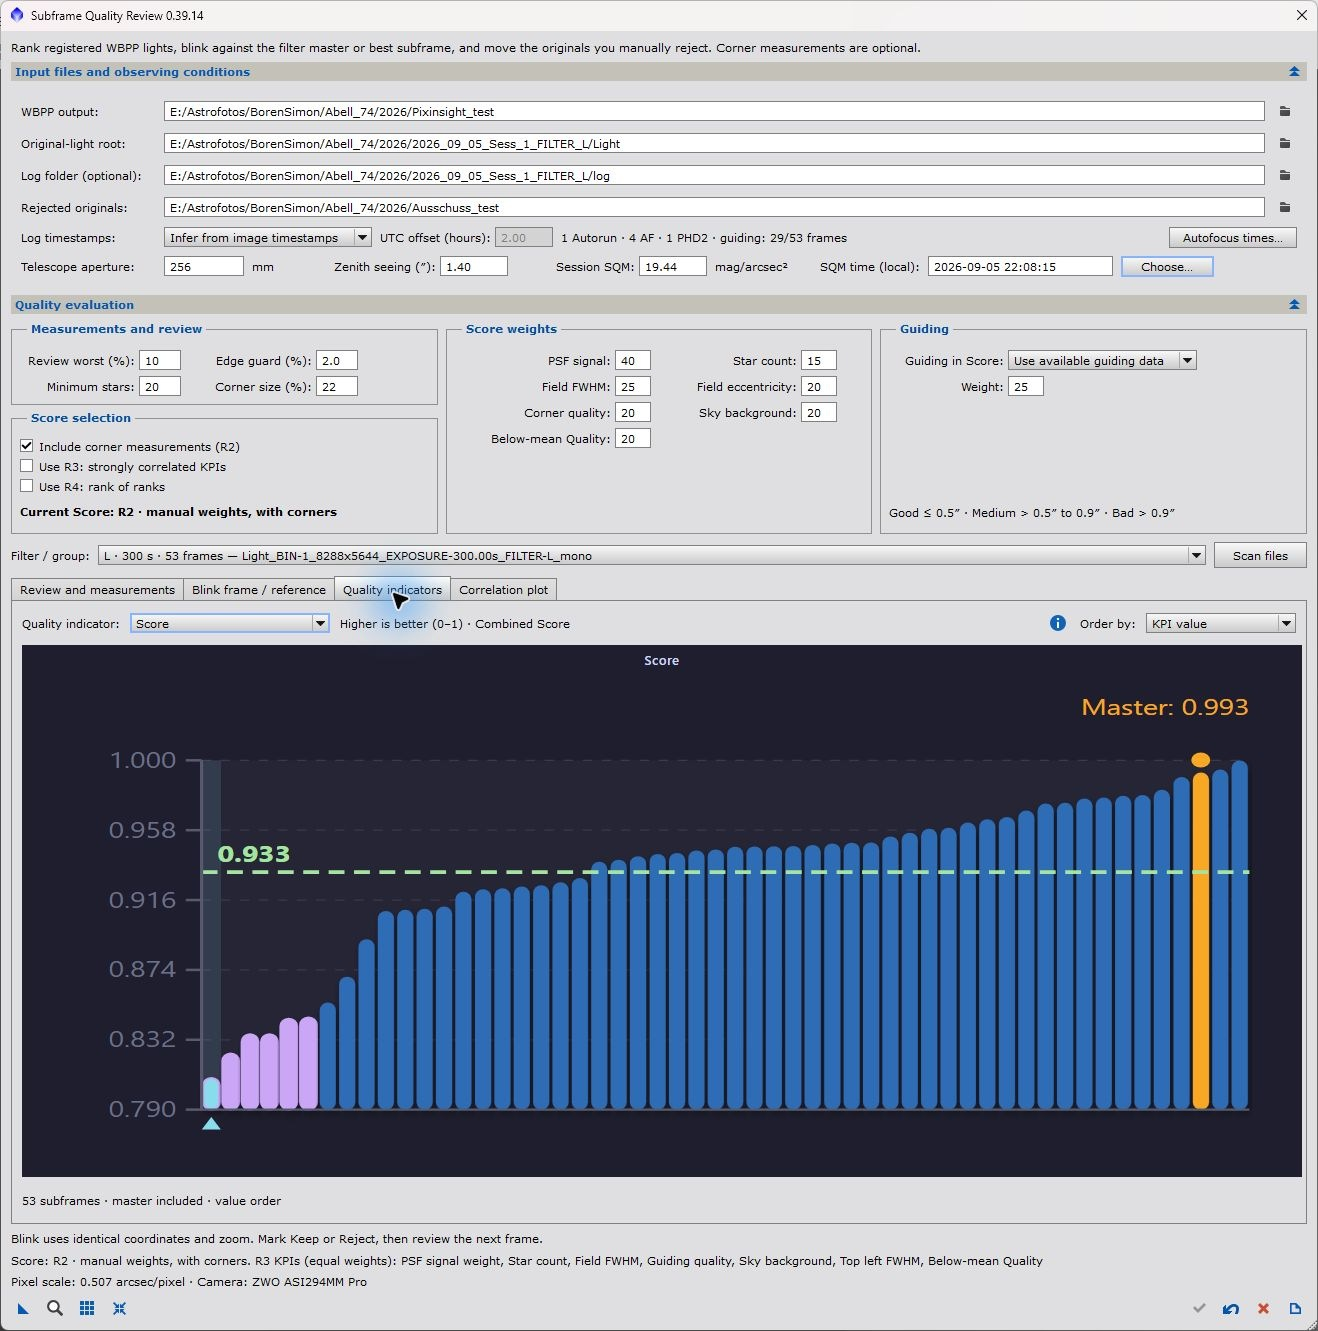
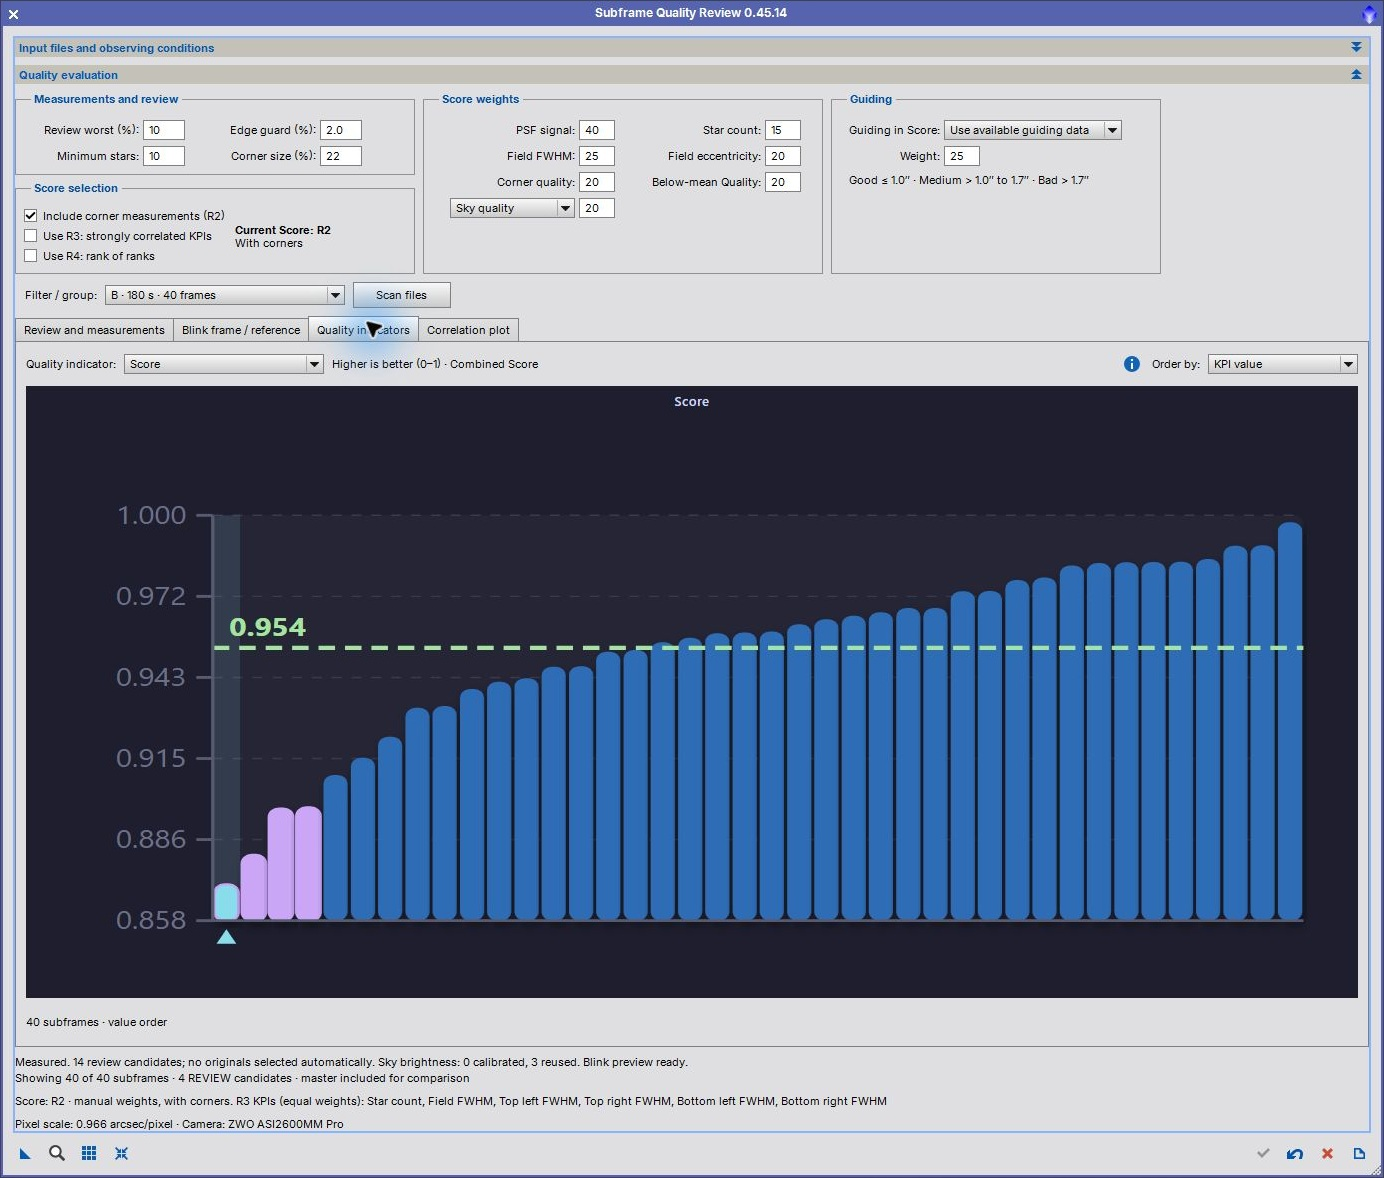
docs: update script details and refresh Subframe Quality Review screenshots
- Update script versions, dates, features, and requirements in README
- Replace nine Subframe Quality Review screenshots with version 0.45.14 captures
- Refresh gallery captions for the NGC 7814 review session

diff --git a/README.md b/README.md
@@ -37,7 +37,7 @@ To try a newly added script before the next updater release, download or clone t
 
 ### Requirements
 
-- **PixInsight:** version **1.9.5 or later with the V8 scripting engine**.
+- **PixInsight:** version **1.9.5 or later with the V8 scripting engine**; **Subframe Quality Review requires 1.9.6 or later with ImageAnalysis installed**.
 - **LRGB Deconvolution Match:** requires an installed, licensed **BlurXTerminator** with its AI model.
 - **BBStarReduction:** [StarXTerminator](https://www.rc-astro.com/resources/StarXTerminator/) for automatic star removal, or an existing matching starless image.
 
@@ -49,7 +49,7 @@ The packaged updater release may lag behind the repository source. For manual ex
 | --- | --- | --- | --- | --- |
 | Inspect image quality | [AberrationInspectorTG](#aberrationinspectortg) | 2.2.0 | Builds a configurable grid of image crops for comparing stars across the field. | 2026&#8209;10&#8209;30 |
 | Compare corners | [AberrationSpotterTG](#aberrationspottertg) | 2.2.0 | Combines the four corners and, optionally, the center in one inspection image. | 2026&#8209;10&#8209;30 |
-| Plan imaging targets | [Astro Bucket List](#astro-bucket-list) | 0.34.1 | Organizes Stellarium target lists, tracks imaging status, and displays finder charts and DSS images. | 2026&#8209;11&#8209;01 |
+| Plan imaging targets | [Astro Bucket List](#astro-bucket-list) | 0.34.1 | Organizes Stellarium target lists, tracks imaging status, and displays finder charts and DSS images. | 2026&#8209;11&#8209;02 |
 | Reduce stars | [BBStarReduction](#bbstarreduction) | 1.3.0 | Applies Bill Blanshan's three methods using automatic or existing starless data, with comparison previews. | 2026&#8209;10&#8209;30 |
 | Select colors | [ColorMaskTG](#colormasktg) | 2.2.0 | Creates masks from hue, intensity, and saturation ranges. | 2026&#8209;10&#8209;30 |
 | Isolate emission | [CSTG](#cstg) | 2.2.0 | Subtracts the broadband continuum contribution from a narrowband image. | 2026&#8209;10&#8209;30 |
@@ -58,10 +58,10 @@ The packaged updater release may lag behind the repository source. For manual ex
 | Combine narrowband and RGB | [EmissionLineIntegrationTG](#emissionlineintegrationtg) | 2.2.1 | Adds continuum-subtracted narrowband emission to RGB channels. | 2026&#8209;10&#8209;30 |
 | Blend linear masters | [Linear Master Blend](#linear-master-blend) | 1.20.1 | Normalizes and integrates two linear masters using measured quality and adjustable sharpness preference. | 2026&#8209;10&#8209;19 |
 | Support deconvolution | [LocalSupportMask](#localsupportmask) | 2.2.0 | Generates a local support mask for deconvolution deringing. | 2026&#8209;10&#8209;30 |
-| Match L and RGB sharpness | [LRGB Deconvolution Match](#lrgb-deconvolution-match) | 1.13.2 | Uses BlurXTerminator to match stellar halo profiles with estimated sharpening, independent FWHM checks, and blink previews. | 2026&#8209;10&#8209;30 |
+| Match L and RGB sharpness | [LRGB Deconvolution Match](#lrgb-deconvolution-match) | 1.14.3 | Uses BlurXTerminator to match stellar halo profiles with estimated sharpening, independent FWHM checks, and blink previews. | 2026&#8209;11&#8209;05 |
 | Match intensity scales | [ROI Linear Fit](#roi-linear-fit) | 1.1.6 | Measures a fit in a selected region and applies it to the full target image. | 2026&#8209;10&#8209;04 |
 | Protect diffraction spikes | [Star Spike Protection Mask](#star-spike-protection-mask) | 1.7.2 | Builds a soft mask protecting bright stellar cores and their spikes. | 2026&#8209;10&#8209;10 |
-| Review WBPP subframes | [Subframe Quality Review](#subframe-quality-review) | 0.42.3 | Reviews registered lights with four rankings, sky quality and transparency indicators, blink, plots, and journal-based rejection and undo. | 2026&#8209;10&#8209;30 |
+| Review WBPP subframes | [Subframe Quality Review](#subframe-quality-review) | 0.45.14 | Reviews registered lights with quality rankings, transparency and cloud-extinction indicators, blink comparisons, and reversible rejection moves. | 2026&#8209;11&#8209;07 |
 | Develop scripts | [TGScriptSkeleton](#tgscriptskeleton) | 1.6 | Provides a reusable dialog, image preview, and process-instance framework. | 2026&#8209;10&#8209;19 |
 
 Versions follow the declarations in the repository source.
@@ -255,14 +255,16 @@ Generates **stellar support masks for deconvolution deringing** from linear gray
 
 ### LRGB Deconvolution Match
 
-**Version:** 1.13.2 · **Last update:** 2026-10-30
+**Version:** 1.14.3 · **Last update:** 2026-11-05
 
-Matches **stellar sharpness and halos in registered linear L and RGB images** using BlurXTerminator. Provides automatic sharpening estimates, halo optimization, blink comparisons, FWHM plots, and a match-quality report.
+Matches **stellar sharpness and halos in registered linear L and RGB images** using BlurXTerminator. Provides automatic sharpening estimates, halo optimization, blink comparisons, FWHM plots, and a match-quality report in a resizable dialog with collapsible settings.
 
 [Source](TGScripts_repository/src/scripts/TGScripts/LRGBDeconvolutionMatch.js) · [Guide](TGScripts_repository/doc/scripts/LRGBDeconvolutionMatch/LRGBDeconvolutionMatch.html)
 
 <details>
 <summary>View LRGB Deconvolution Match interface</summary>
+
+Screenshots show **1.13.0**, before the current dialog layout.
 
 **Reference before/after**
 
@@ -284,7 +286,7 @@ Matches **stellar sharpness and halos in registered linear L and RGB images** us
 
 Matches a target’s **intensity scale to a reference** using a selected region of interest, then applies the fit to the full image. Supports RGB channels, preview-based region selection, scatter plots, and Undo.
 
-[Source](TGScripts_repository/src/scripts/TGScripts/ROILinearFit.js)
+[Source](TGScripts_repository/src/scripts/TGScripts/ROILinearFit.js) · [Guide](TGScripts_repository/doc/scripts/ROILinearFit/ROILinearFit.html)
 
 <details>
 <summary>View ROI Linear Fit interface</summary>
@@ -299,7 +301,7 @@ Matches a target’s **intensity scale to a reference** using a selected region 
 
 Creates **soft protection masks for bright stars and diffraction spikes** from stretched stars-only images. Includes star and spike detection controls, adjustable mask growth and blur, previews, and XISF export.
 
-[Source](TGScripts_repository/src/scripts/TGScripts/StarSpikeProtectionMask.js)
+[Source](TGScripts_repository/src/scripts/TGScripts/StarSpikeProtectionMask.js) · [Guide](TGScripts_repository/doc/scripts/StarSpikeProtectionMask/StarSpikeProtectionMask.html)
 
 <details>
 <summary>View Star Spike Protection Mask interface</summary>
@@ -310,54 +312,52 @@ Creates **soft protection masks for bright stars and diffraction spikes** from s
 
 ### Subframe Quality Review
 
-**Version:** 0.42.3 · **Last update:** 2026-10-30
+**Version:** 0.45.14 · **Last update:** 2026-11-07
 
-Helps select **WBPP subframes to keep or reject** using four quality rankings, field and corner measurements, sky-quality indicators, and optional guiding logs. Includes blink comparisons, quality and correlation plots, FWHM grading, and SQM/Gaia sky calibration. Manually rejected originals can be moved with a confirmation step and restored through a move journal.
+Helps select **WBPP subframes to keep or reject** using ImageAnalysis measurements, four quality rankings, and field, corner, sky-quality, and guiding indicators. Includes relative transparency and cloud-extinction estimates, blink comparisons, quality plots, FWHM grading, and SQM/Gaia sky calibration. Confirmed moves of manually rejected originals can be undone through a move journal.
 
 [Source](TGScripts_repository/src/scripts/TGScripts/SubframeQualityReview.js) · [Guide](TGScripts_repository/doc/scripts/SubframeQualityReview/SubframeQualityReview.html)
 
 <details>
 <summary>View Subframe Quality Review interface</summary>
 
-**Current setup — 0.42.3**
+Captured from **0.45.14** on **2026-11-07**, reviewing 40 blue-filter, 180-second subframes of **NGC 7814**.
 
-![Subframe Quality Review 0.42.3 setup with observing conditions, R1–R4 scoring, sky indicator selection, guiding, and review tabs](TGScripts_repository/images/SubframeQualityReview_main_screen.jpg)
+**Review and measurements**
 
-**Earlier populated examples — 0.39.14**
-
-These earlier examples show an Abell 74 session; their layout and scoring differ from the current version.
+![Subframe Quality Review 0.45.14 with R1–R4 rankings, review candidates, and field and corner measurements](TGScripts_repository/images/SubframeQualityReview_main_screen.jpg)
 
 **Blink frame / reference**
 
-![Subframe Quality Review 0.39.14 Abell 74 blink preview with best-subframe reference, region controls, adjustable playback interval, and display stretching](TGScripts_repository/images/SubframeQualityReview_blink_preview.jpg)
+![Subframe Quality Review 0.45.14 NGC 7814 blink preview with a best-subframe reference, region controls, and display stretching](TGScripts_repository/images/SubframeQualityReview_blink_preview.jpg)
 
-**Earlier Score plot — 0.39.14**
+**Score plot**
 
-![Subframe Quality Review 0.39.14 Score plot in ascending value order, with review candidates, selected frame, mean, and master comparison](TGScripts_repository/images/SubframeQualityReview_quality_indicators.jpg)
+![Subframe Quality Review 0.45.14 Score plot with 40 subframes in value order, review candidates, selected frame, and mean](TGScripts_repository/images/SubframeQualityReview_quality_indicators.jpg)
 
-**Earlier Sky background plot — now named Sky brightness**
+**Sky brightness**
 
-![Subframe Quality Review 0.39.14 sky-background plot with the session SQM 19.44 reference line, Bortle 6 quality shading, mean, and master comparison](TGScripts_repository/images/SubframeQualityReview_sky_background.jpg)
+![Subframe Quality Review 0.45.14 sky-brightness plot with SQM 19.10 reference, Bortle 6 quality bands, mean, and master comparison](TGScripts_repository/images/SubframeQualityReview_sky_background.jpg)
 
 **Field FWHM — quality bands**
 
-![Subframe Quality Review 0.39.14 field-FWHM plot with Good, Medium, and Bad bands derived from the telescope and observing conditions](TGScripts_repository/images/SubframeQualityReview_fwhm_indicators.jpg)
+![Subframe Quality Review 0.45.14 field-FWHM plot with quality bands, mean, and master comparison](TGScripts_repository/images/SubframeQualityReview_fwhm_indicators.jpg)
 
 **FWHM grading settings**
 
-![Subframe Quality Review FWHM grading dialog showing aperture, zenith seeing, image scale, target altitude, wavelength, relative limits, and calculated limits in pixels](TGScripts_repository/images/SubframeQualityReview_fwhm_grading.jpg)
+![Subframe Quality Review 0.45.14 FWHM grading with telescope and observing conditions, relative thresholds, and calculated pixel limits](TGScripts_repository/images/SubframeQualityReview_fwhm_grading.jpg)
 
 **Field eccentricity**
 
-![Subframe Quality Review 0.39.14 field-eccentricity plot with an adaptive vertical axis and Good, Medium, and Bad bands at 0.42 and 0.60](TGScripts_repository/images/SubframeQualityReview_eccentricity.jpg)
+![Subframe Quality Review 0.45.14 field-eccentricity plot with quality bands, review candidates, mean, and master comparison](TGScripts_repository/images/SubframeQualityReview_eccentricity.jpg)
 
 **Guiding indicators — average error**
 
-![Subframe Quality Review 0.39.14 guide-average plot in arcseconds with quality bands and guiding data available for 29 of 53 frames](TGScripts_repository/images/SubframeQualityReview_guiding_indicators.jpg)
+![Subframe Quality Review 0.45.14 guide-average error in arcseconds for 40 subframes, with quality bands and mean](TGScripts_repository/images/SubframeQualityReview_guiding_indicators.jpg)
 
 **Correlation plot**
 
-![Subframe Quality Review 0.39.14 scatter plot comparing field FWHM with PSF signal weight, showing Pearson correlation and selectable subframes](TGScripts_repository/images/SubframeQualityReview_correlation_plot.jpg)
+![Subframe Quality Review 0.45.14 field FWHM versus PSF signal weight, with Pearson correlation and highlighted review candidates](TGScripts_repository/images/SubframeQualityReview_correlation_plot.jpg)
 
 </details>
 
@@ -367,7 +367,7 @@ These earlier examples show an Abell 74 session; their layout and scoring differ
 
 Provides a **starting point for PixInsight script development** with image selection, zoomable previews, display stretching, image statistics, reusable process icons, and standard dialog controls.
 
-[Source](TGScripts_repository/src/scripts/TGScripts/TGScriptSkeleton.js)
+[Source](TGScripts_repository/src/scripts/TGScripts/TGScriptSkeleton.js) · [Guide](TGScripts_repository/doc/scripts/TGScriptSkeleton/TGScriptSkeleton.html)
 
 <details>
 <summary>View TGScriptSkeleton interface</summary>
